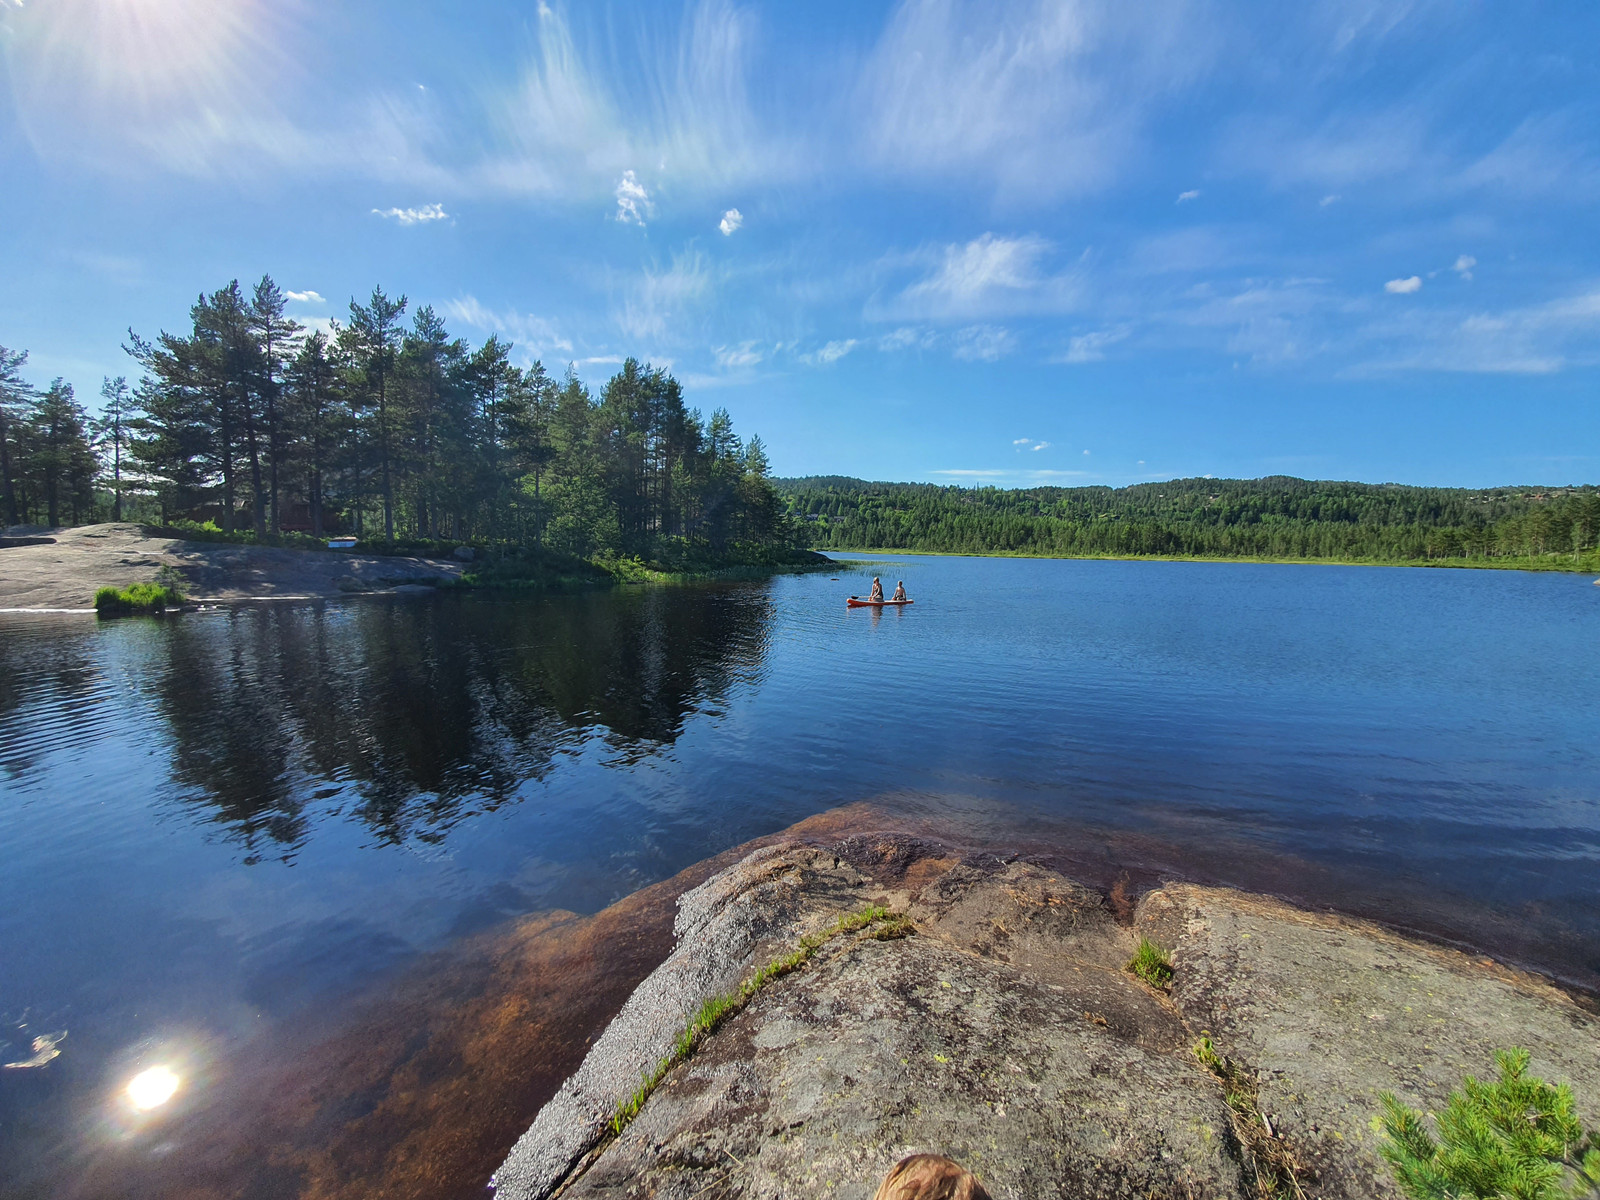
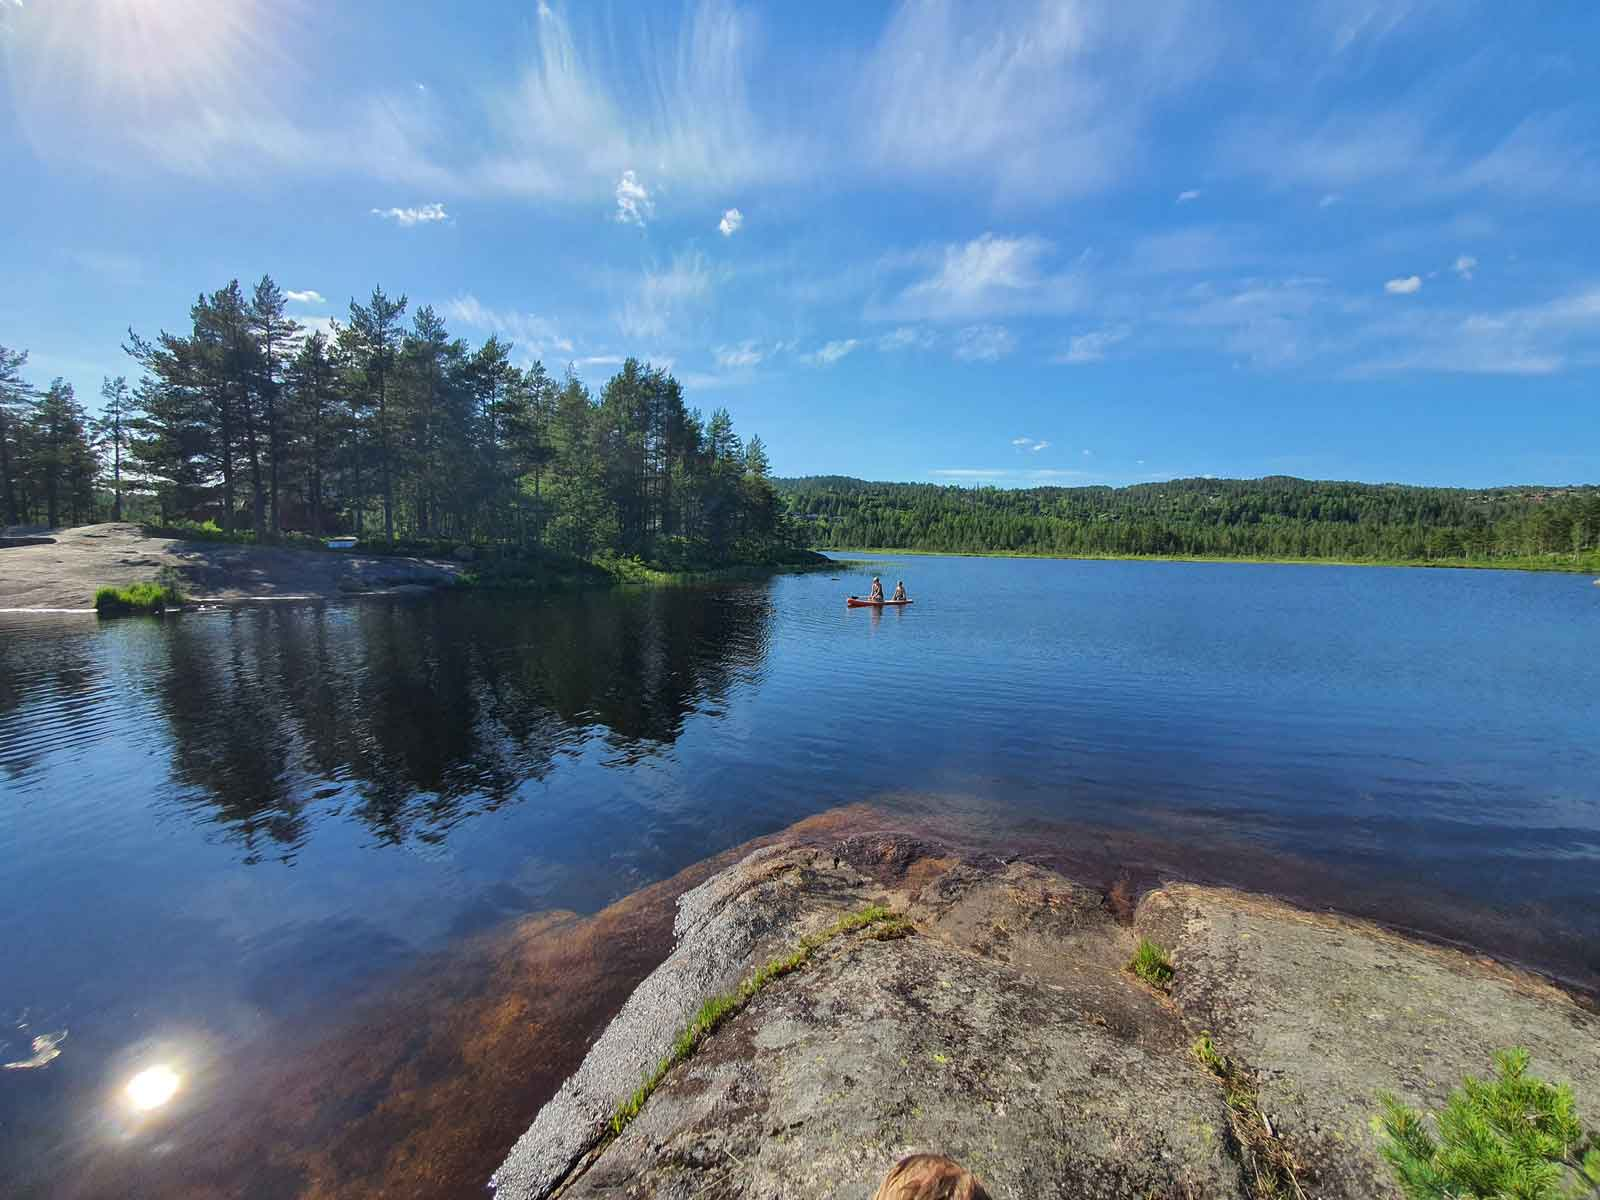
Resized images
Resized images to better suite mobile devices on the go

diff --git a/css/general.css b/css/general.css
@@ -178,7 +178,7 @@ nav a:active {
     text-align: center
 }
 .welcome-section {
-    background-image: url(/media/BGimage.png);
+    background-image: url(/media/BGimage.jpg);
     background-repeat: no-repeat;
     background-size: cover;
     background-position: center;
